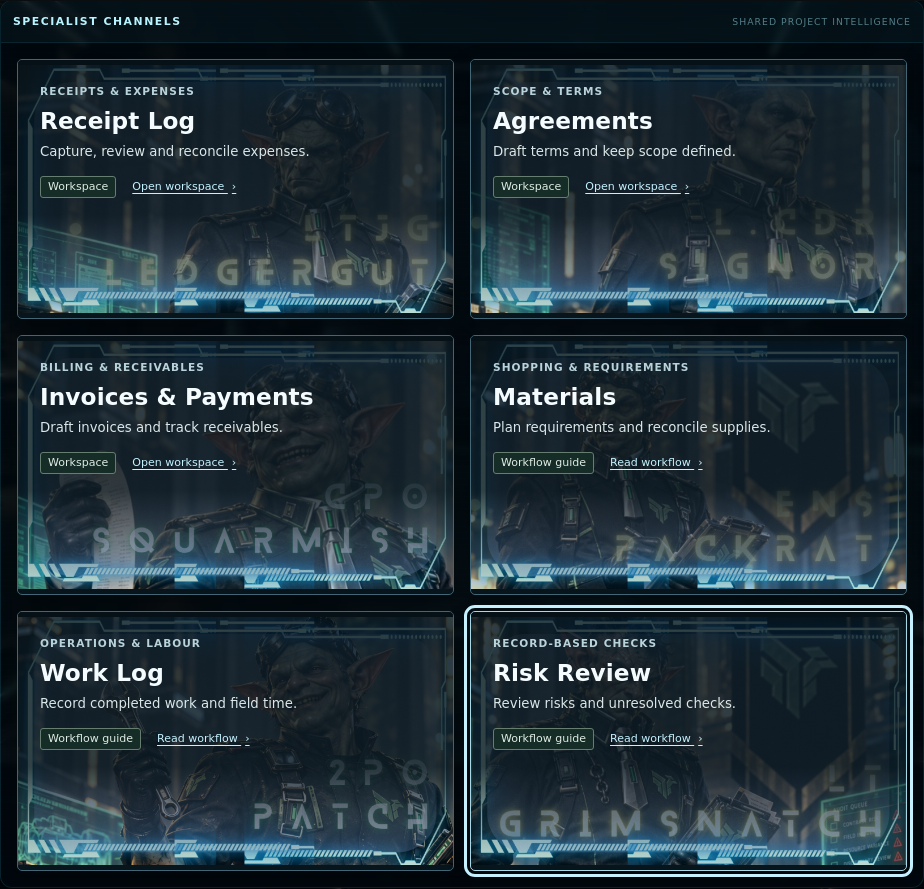
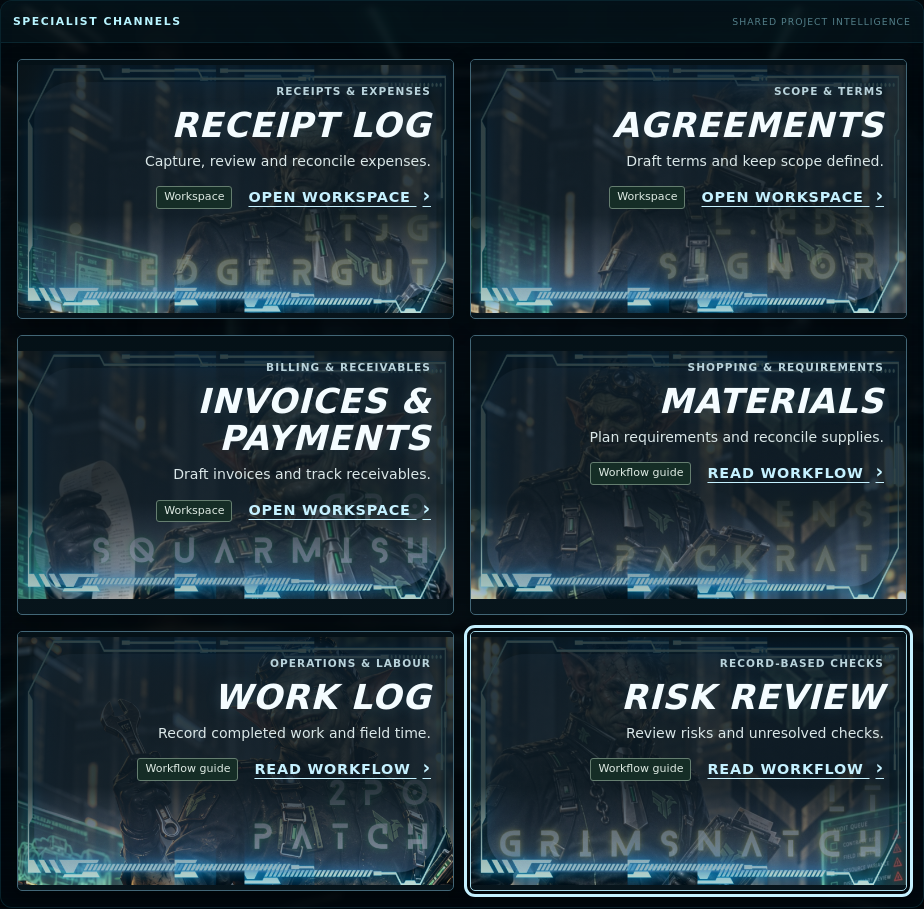
style(ui): enlarge and right-align specialist panel typography

diff --git a/app/office/static/specialist-glass.css b/app/office/static/specialist-glass.css
@@ -61,13 +61,13 @@
   z-index:2;
   display:grid;
   align-content:start;
-  justify-items:start;
+  justify-items:end;
   gap:7px;
   width:100%;
   min-width:0;
   margin-left:0;
   padding:0;
-  text-align:left;
+  text-align:right;
   overflow-wrap:anywhere;
 }
 .office-scope-panel.specialist-glass-card .office-scope-content>small,
@@ -82,20 +82,25 @@
 .office-scope-panel.specialist-glass-card .office-scope-content>strong,
 .command-channel.business-specialist-link.specialist-glass-card .command-channel-copy>strong {
   color:#f4fcff;
-  font-size:clamp(1.15rem,1.7vw,1.45rem);
-  line-height:1.2;
-  letter-spacing:.005em;
+  font-size:clamp(1.55rem,2.5vw,2.15rem);
+  line-height:1.08;
+  font-weight:800;
+  font-style:italic;
+  text-transform:uppercase;
+  letter-spacing:.025em;
+  text-shadow:0 0 16px #83ddff26;
   text-wrap:balance;
 }
 .specialist-glass-card .office-scope-summary {
   color:#dae7e8;
-  font-size:.83rem;
+  font-size:.88rem;
   line-height:1.5;
   font-variant-numeric:tabular-nums;
 }
 .specialist-channel-footer {
   display:flex;
   align-items:center;
+  justify-content:flex-end;
   flex-wrap:wrap;
   gap:8px 16px;
   margin-top:7px;
@@ -110,8 +115,16 @@
   border:1px solid #657e70;
   border-radius:3px;
 }
-.specialist-channel-action {color:#c5f1ff;text-decoration:underline;text-underline-offset:3px}
-.specialist-channel-action>span {margin-left:4px}
+.specialist-channel-action {
+  color:#c5f1ff;
+  font-size:.9rem;
+  font-weight:750;
+  letter-spacing:.055em;
+  text-transform:uppercase;
+  text-decoration:underline;
+  text-underline-offset:4px;
+}
+.specialist-channel-action>span {margin-left:6px;font-size:1.3em;line-height:1}
 /* Identity is already engraved in the supplied artwork. Preserve a matching,
  * accessible text equivalent without double-printing names over the pane. */
 .specialist-glass-card .specialist-glass-identity {

diff --git a/docs/brand/visual-canon.md b/docs/brand/visual-canon.md
@@ -474,7 +474,7 @@ On the Command Desk, project workbench, and client/project records screens, real
 
 - Main labels are business functions: **Receipt Log, Agreements, Invoices & Payments, Materials, Work Log, Risk Review**.
 - Specialists' rank and character names are compact secondary bylines, never the main headings. The supplied 2026-10-14 panes supersede the earlier Army-style beta ranks: **LTJG Ledgergut, L.CDR SigNor, CPO Squarmish, ENS Packrat, 2PO Patch, LT Grimsnatch**. The shared presentation catalogue is `app/office/specialists.py`; legacy domain IDs such as `grimscratch` remain stable.
-- Specialist cards have **two independent layers**: an always-functional, left-aligned information layer (label, live record/status values, navigation) above a separate, optional holographic glass layer (portrait, specialist rank/name engraving, shading, frame). No visual media may shift, resize, cover, or determine placement of the functional content.
+- Specialist cards have **two independent layers**: an always-functional, right-aligned information layer (label, live record/status values, navigation) above a separate, optional holographic glass layer (portrait, specialist rank/name engraving, shading, frame). No visual media may shift, resize, cover, or determine placement of the functional content.
 - Portraits are correctly proportioned, never stretched, shaded but recognisable, and atmospheric **within** the glass substrate. The supplied character name and rank are already etched into the glass artwork, not repeated as foreground body text. Cyan frames represent **Æterna projecting the specialist channels**, not a change to goblin uniforms or physical green-steel identity. Provide adequate contrast behind content, maintain focus visibility, and support reduced transparency and forced colors.
 - The six original 1536 × 877 PNGs in `resources/canon/characters/holographic-panes/` are now the specialist glass artwork on both the Command Desk and project workbench. Preserve the entire supplied frame with `object-fit: contain`; never stretch, crop, redraw or duplicate their baked rank/name lettering. An accessible HTML identity accompanies each pane. The old six-face sprite is retained only as an archived beta asset and is not loaded by these panels.
 - Project name, linked client, status, actual ledger metrics, work logs and existing actions take precedence over the specialist grid.
@@ -486,4 +486,4 @@ These rules supersede the character-centric dossier mockups. Future beta UI shou
 
 ### Static pane implementation
 
-The desk and project workbench use one shared panel macro and catalogue. Business-function headings remain primary, with real project counts and scoped destinations. Desk channels distinguish working workspaces from workflow guides; project channels link to existing record sections and advisory checks. Image loading and failure cannot determine HTML placement. Cards grow with text, reflow to one column on narrow screens, retain native links and visible keyboard focus, and have solid-color/reduced-transparency and forced-color fallbacks. No specialist animation, speech, autonomous action or invented completion state is part of this implementation.
+The desk and project workbench use one shared panel macro and catalogue. Business-function headings remain primary, with real project counts and scoped destinations. Desk channels distinguish working workspaces from workflow guides; project channels link to existing record sections and advisory checks. Image loading and failure cannot determine HTML placement. Labels use larger, bold italic uppercase type, right-aligned with their summaries and actions, as requested on 2026-10-15. This supersedes the earlier left-aligned beta arrangement. Cards grow with text, reflow to one column on narrow screens, retain native links and visible keyboard focus, and have solid-color/reduced-transparency and forced-color fallbacks. No specialist animation, speech, autonomous action or invented completion state is part of this implementation.

diff --git a/docs/qa/specialist-pane-integration.md b/docs/qa/specialist-pane-integration.md
@@ -13,6 +13,10 @@ The Command Desk and project workbench now mount the six supplied original panes
 - Distinguish desk workspaces from workflow guides. Project cards show scoped record counts and link to existing records or advisory checks; no new specialist capability or clearance is implied.
 - No new specialist animation, speech, autoplay media, or autonomous action.
 
+## Typography update
+
+The 2026-10-15 follow-up enlarges the panel headings and actions, right-aligns the live copy, and uses bold italic uppercase labels with restrained cyan light. This explicit request supersedes the earlier left-aligned arrangement. The complete pane browser matrix and scoped axe checks passed again after the typography change.
+
 ## Verification
 
 - Full Python suite: **204 passed**. New checks cover shared identities/art, actual project and business scope, singular/plural counts, project destinations, exact PNG bytes, image decoding, MIME type, and conditional cache revalidation.
